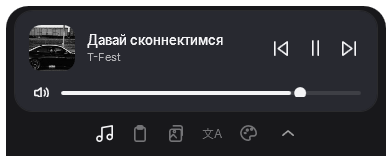
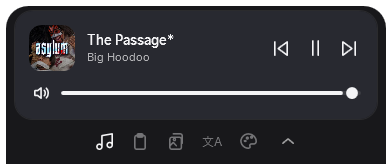
style(music): give the volume row more breathing room

diff --git a/src/DynamicIsland/MainWindow.xaml b/src/DynamicIsland/MainWindow.xaml
@@ -188,7 +188,7 @@
                             <Grid x:Name="DetailHost">
                                 <views:MusicView x:Name="MusicSection"
                                                  DataContext="{Binding Music}"
-                                                 VerticalAlignment="Top" />
+                                                 VerticalAlignment="Center" />
                                 <views:ClipboardView x:Name="ClipboardSection"
                                                      DataContext="{Binding Clipboard}"
                                                      Visibility="Hidden"

diff --git a/src/DynamicIsland/MainWindow.xaml.cs b/src/DynamicIsland/MainWindow.xaml.cs
@@ -24,7 +24,7 @@ public partial class MainWindow : Window
     private const double CollapsedRadius = 20;
 
     private const double DetailWidth = 380;
-    private const double MusicHeight = 150;
+    private const double MusicHeight = 158;
     private const double ScreenshotsHeight = 136;
     private const double ClipboardHeight = 238;
     private const double TranslatorHeight = 260;
